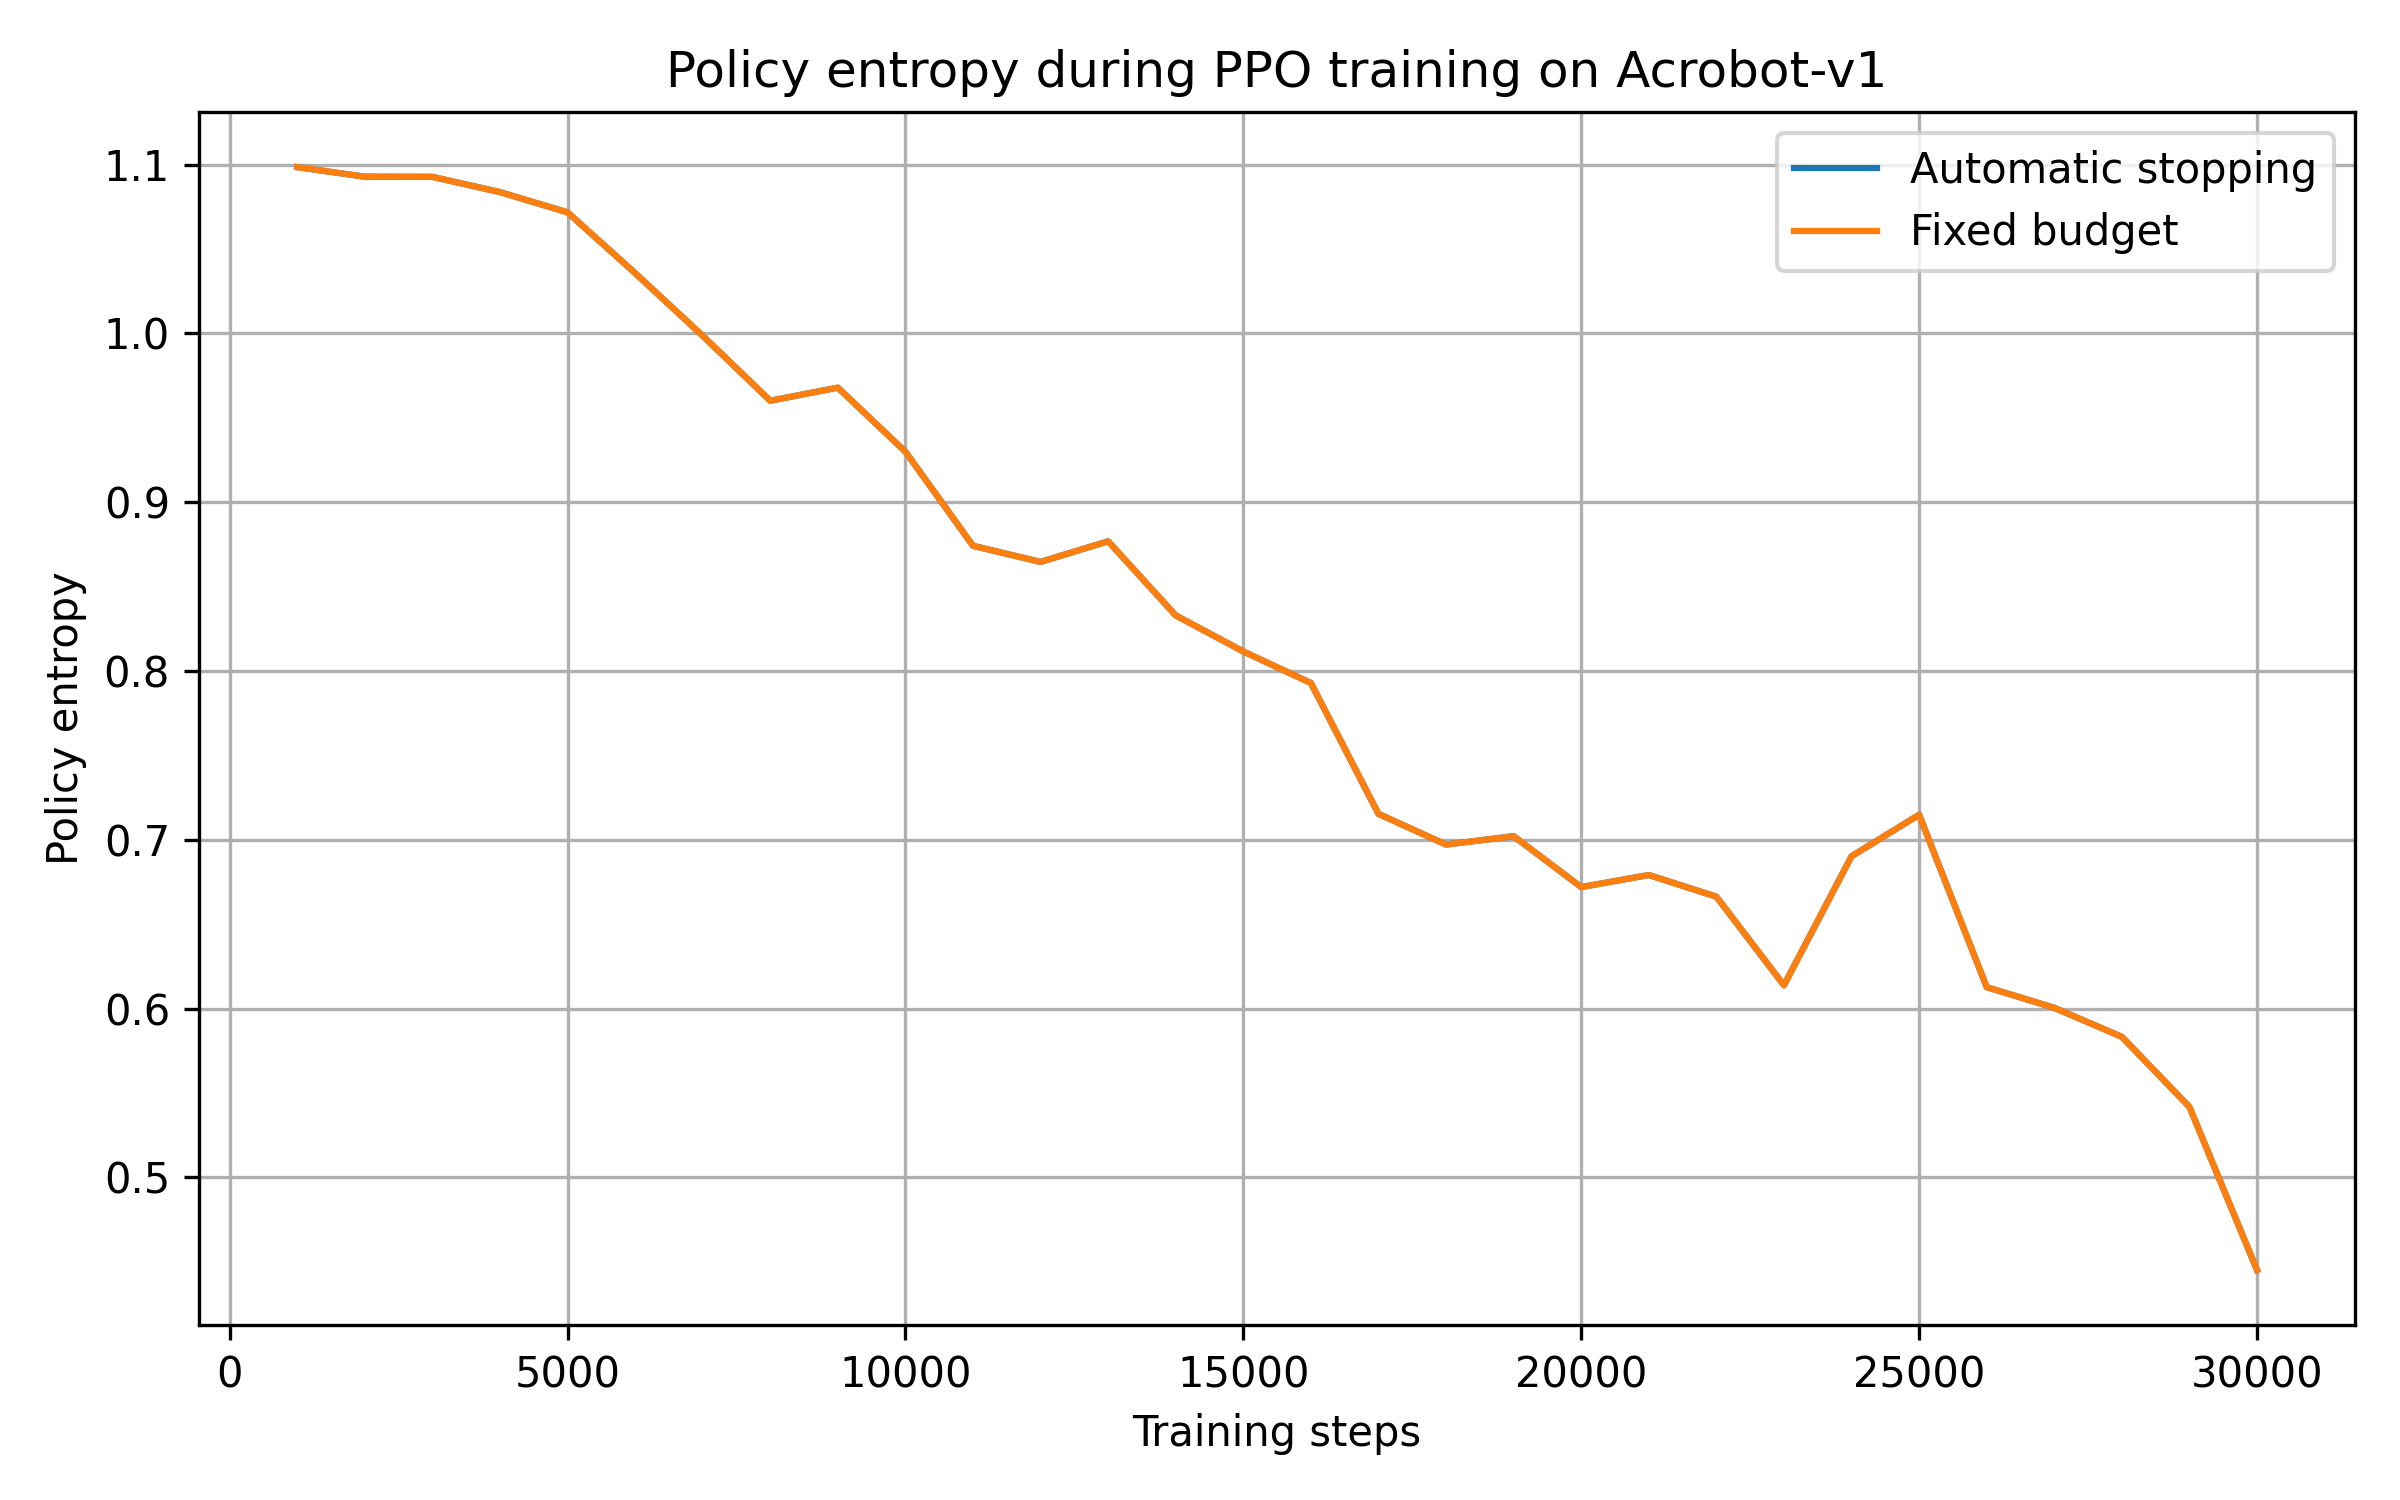
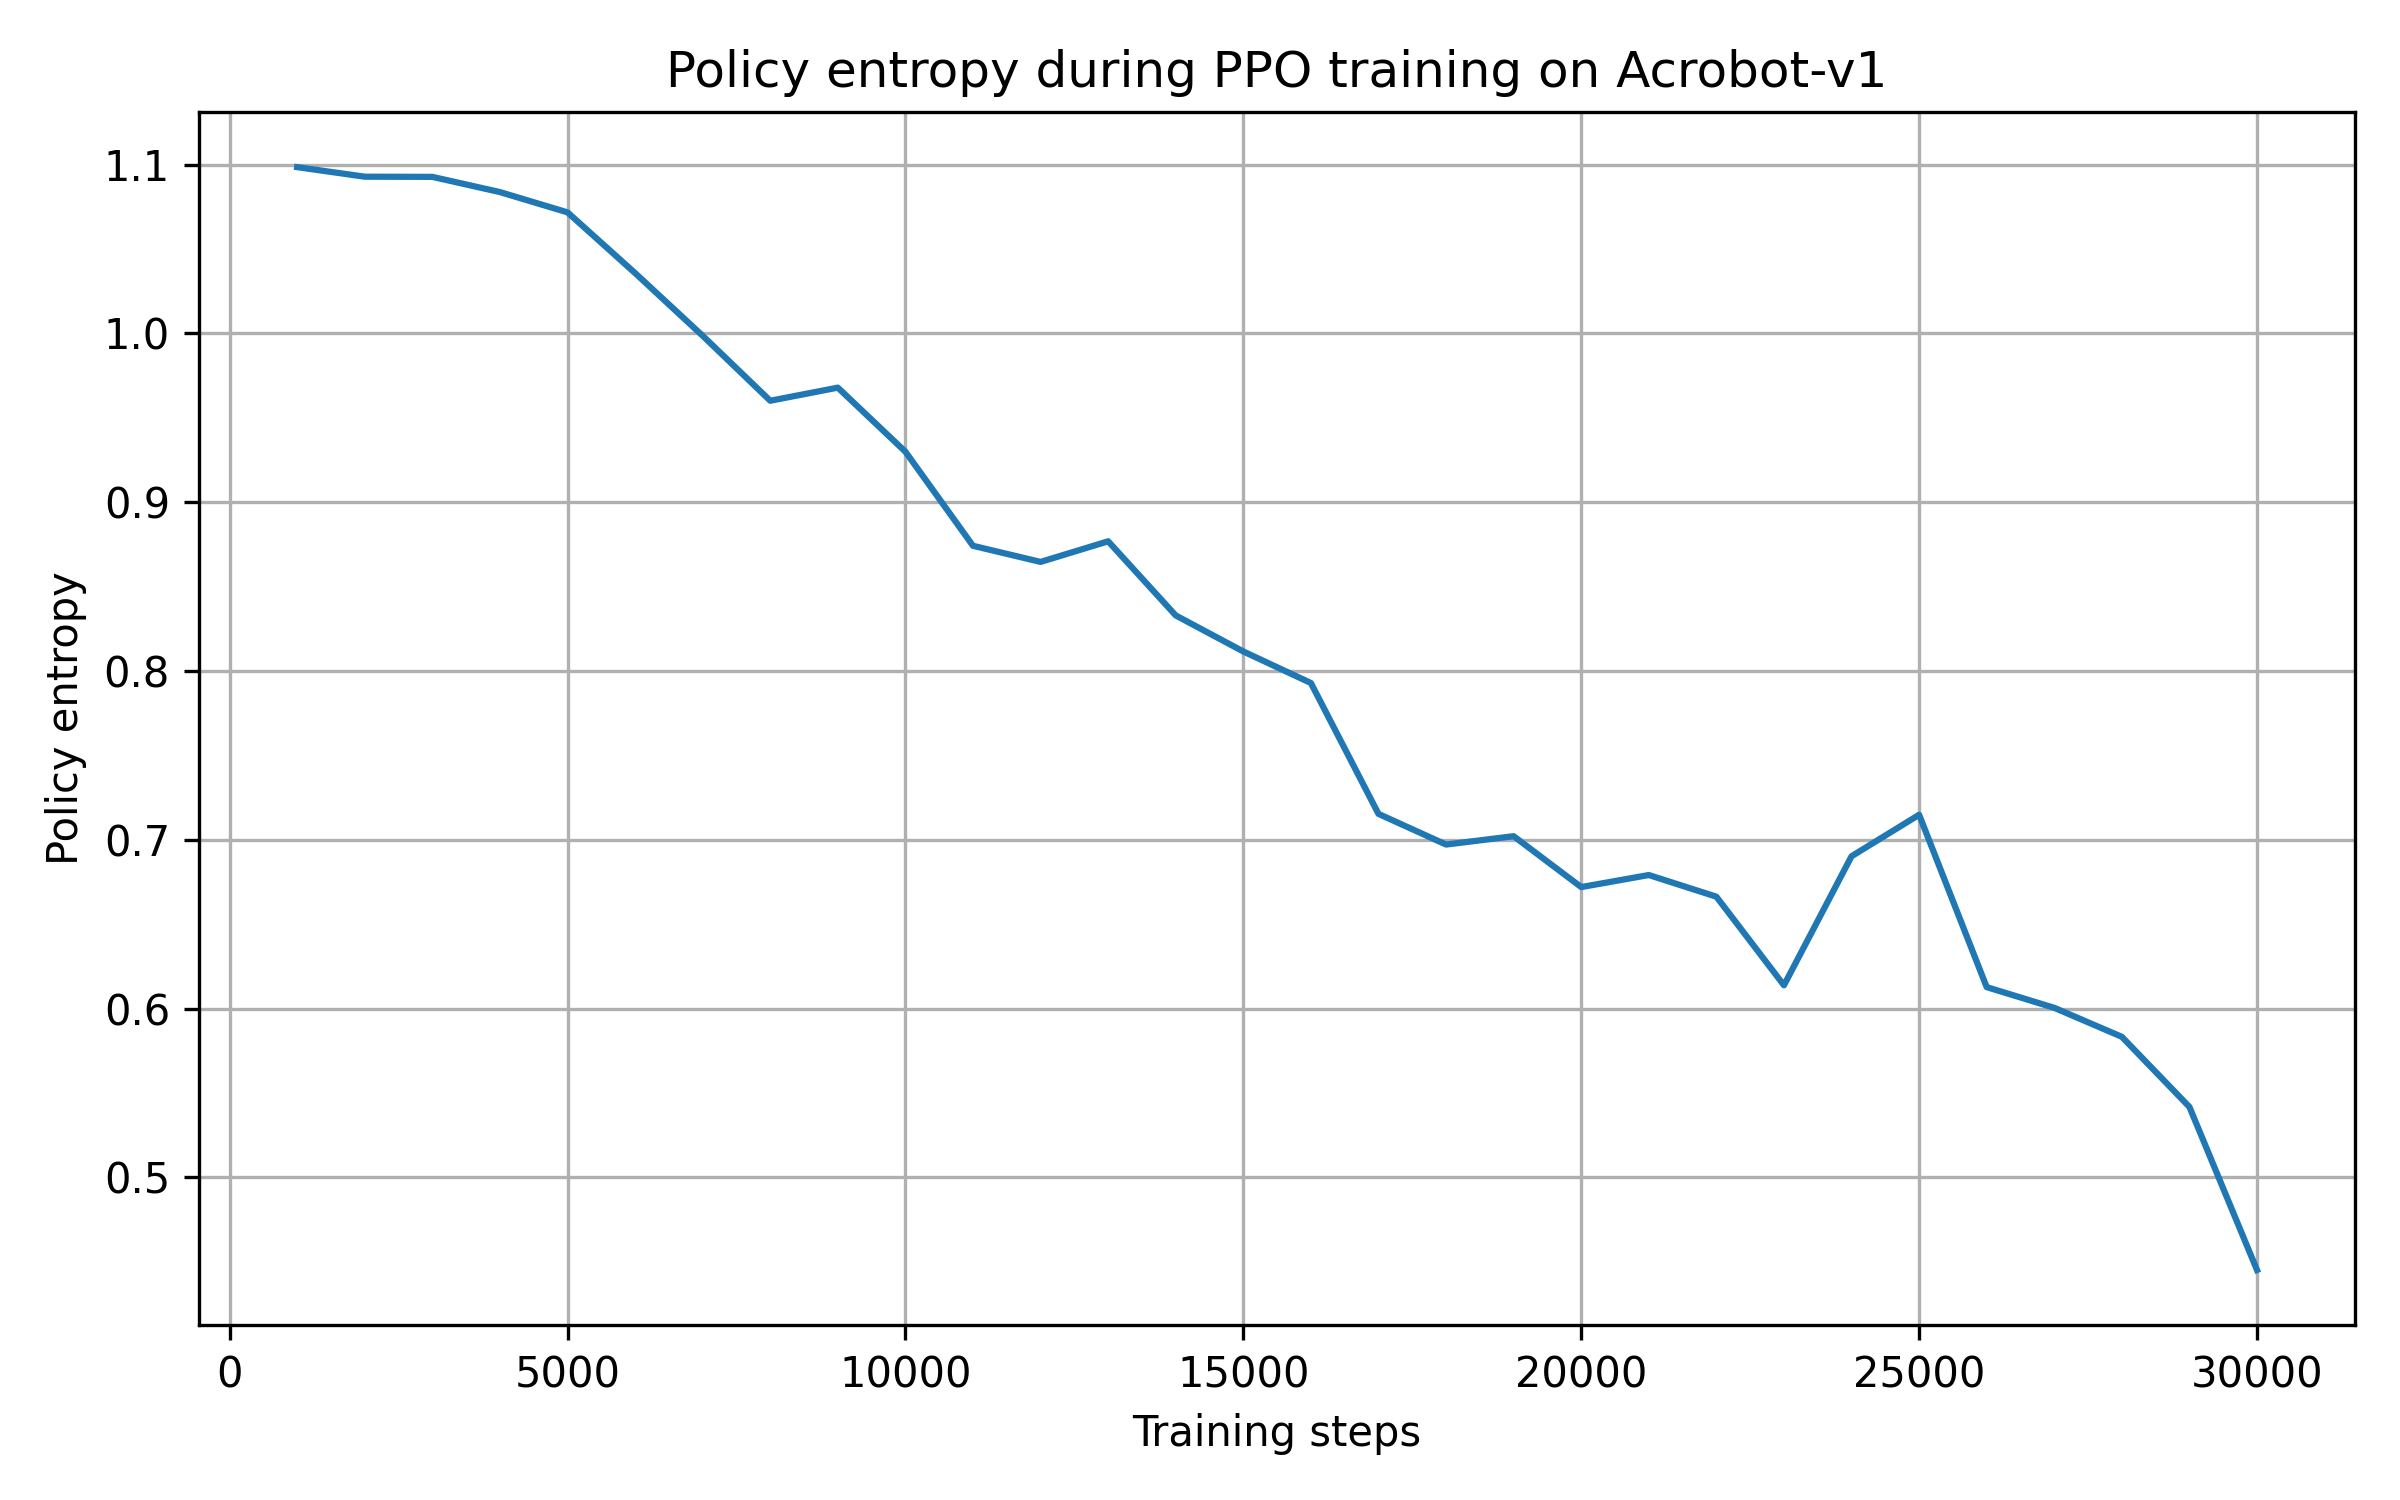
Clarify Acrobot plots

diff --git a/analysis/plots_acrobot.py b/analysis/plots_acrobot.py
@@ -34,45 +34,45 @@ def load_results() -> pd.DataFrame:
     return pd.concat(dataframes, ignore_index=True)
 
 
+def get_single_curve(df: pd.DataFrame) -> pd.DataFrame:
+    # In Acrobot-v1, automatic stopping did not trigger.
+    # Therefore, the automatic-stopping and fixed-budget curves overlap.
+    # We plot only one curve to avoid a confusing legend.
+    method_df = df[df["method"] == "Automatic stopping"].copy()
+
+    if method_df.empty:
+        method_df = df[df["method"] == "Fixed budget"].copy()
+
+    return method_df.sort_values("timesteps")
+
+
 def plot_metric(
     df: pd.DataFrame,
     metric: str,
     ylabel: str,
     filename: str,
-    single_curve_label: str | None = None,
+    legend_label: str | None = None,
 ) -> None:
     plt.figure(figsize=(8, 5))
 
-    if single_curve_label is not None:
-        # For Acrobot evaluation return:
-        # automatic stopping did not trigger, so one curve is enough.
-        method_df = df[df["method"] == "Automatic stopping"].copy()
+    method_df = get_single_curve(df)
 
-        if method_df.empty:
-            method_df = df[df["method"] == "Fixed budget"].copy()
-
-        method_df = method_df.sort_values("timesteps")
-
+    if legend_label is not None:
         plt.plot(
             method_df["timesteps"],
             method_df[metric],
-            label=single_curve_label,
+            label=legend_label,
         )
-
+        plt.legend()
     else:
-        for method, method_df in df.groupby("method"):
-            method_df = method_df.sort_values("timesteps")
-
-            plt.plot(
-                method_df["timesteps"],
-                method_df[metric],
-                label=method,
-            )
+        plt.plot(
+            method_df["timesteps"],
+            method_df[metric],
+        )
 
     plt.xlabel("Training steps")
     plt.ylabel(ylabel)
     plt.title(ylabel + " during PPO training on Acrobot-v1")
-    plt.legend()
     plt.grid(True)
     plt.tight_layout()
 
@@ -93,7 +93,7 @@ def main() -> None:
         metric="eval_return_mean",
         ylabel="Evaluation return",
         filename="evaluation_return.png",
-        single_curve_label="No early stop (30,000 steps)",
+        legend_label="No early stop (30,000 steps)",
     )
 
     plot_metric(
@@ -113,7 +113,7 @@ def main() -> None:
     plot_metric(
         df,
         metric="visited_states",
-        ylabel="Visited states",
+        ylabel="Visited rounded states",
         filename="visited_states.png",
     )
 
